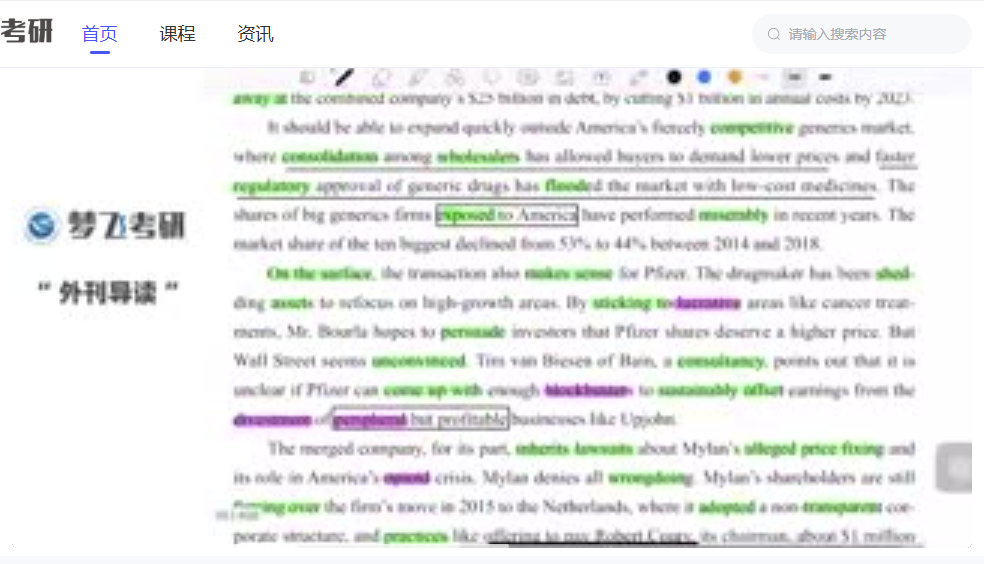
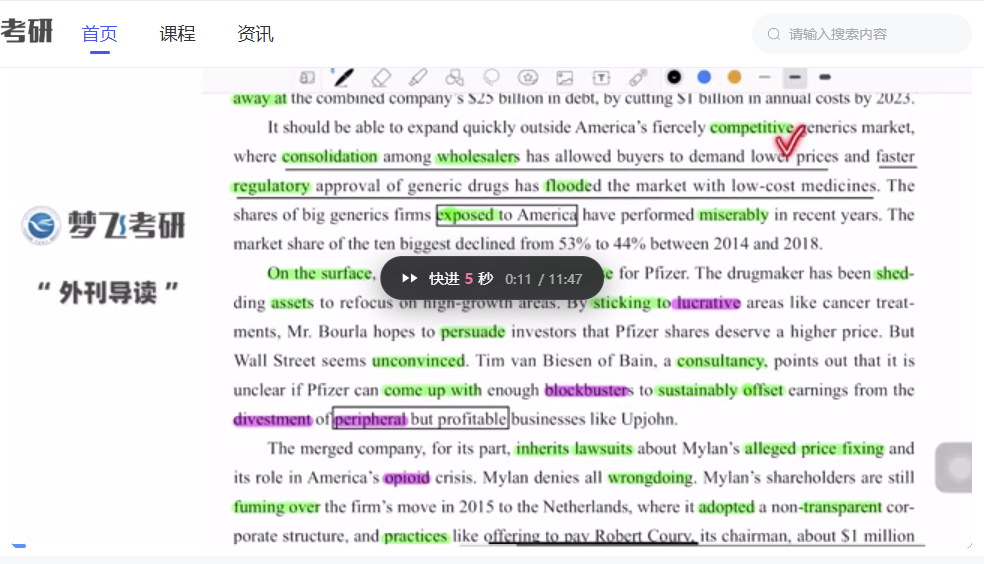
fix: 连续快速按方向键会把播放器按卡住（v1.1.2）
现象：连着快速按 → 十几次后，视频画面不动、播放按钮一直转圈。

定位：百家云 ffplayer 每 seek 一次都要重开解码管线。脚本（和播放器自己的
进度条逻辑一样）在每次按键时各发一次 seek，一秒内连开十几次之后，播放器会
长时间停在 seeking 状态（isSeeking=true，按钮显示 loading、容器挂上
bplayer-seeking），画面不再刷新，看起来就是卡死。

修法两段：

1) 连按合并
   把连按的位移攒起来，最多每 400ms 真正 seek 一次，总位移不变。
   实测 8 次快按只触发 4 次 seek，30 次快按只触发 8 次（原来 30 次），
   跳转总量仍然是 8×5=40 秒 / 30×5=150 秒。

2) 卡死兜底
   万一还是被拖进了“一直 seeking”的状态：连续 3 秒没有进展就先清掉
   seeking 标志（顺手把 loading 图标恢复），再过 4 秒还不走就原地重开
   一次解码。正常播放和正常 seek 时这个定时器什么都不做。

测试新增 5 条：8 连按后仍能播、8 连按的 seek 次数上限、30 连按的 seek
次数上限、30 连按后仍能播，以及原有的累计位移断言。

diff --git a/ky-bilibili-player.user.js b/ky-bilibili-player.user.js
@@ -1,7 +1,7 @@
 // ==UserScript==
 // @name         研优课(ky.mfedu.cn) B站式播放控制
 // @namespace    https://github.com/ZhuYiXuanNB/bettermfclass
-// @version      1.1.1
+// @version      1.1.2
 // @description  给研优课的课程播放器加上 B 站风格的快捷键：← / → 快退快进、按住 → 倍速播放、↑ / ↓ 音量、空格播放暂停、F 全屏、W 网页全屏。已适配百家云(BPlayer/ffplayer 画布播放)与保利威。
 // @author       ZhuYiXuanNB
 // @match        https://ky.mfedu.cn/*
@@ -42,7 +42,7 @@
   if (window.__mfcPlayerHooked) return;
   window.__mfcPlayerHooked = true;
 
-  const VERSION = '1.1.1';
+  const VERSION = '1.1.2';
   const ACCENT = '#FB7299'; // B 站粉
 
   // ==========================================================================
@@ -692,6 +692,34 @@
     });
   }
 
+  // ---- 连按合并 -------------------------------------------------------------
+  // 百家云的 ffplayer 每 seek 一次都要重开解码。一秒里连开十几次 seek 之后，
+  // 它会长时间停在 seeking 状态（画面不动、按钮一直转圈），也就是“按卡住了”。
+  // 这里把连按攒起来，最多每 MIN_SEEK_GAP 毫秒真正 seek 一次，总位移不变。
+  const seekBurst = { pending: 0, lastAt: 0, timer: 0 };
+  const MIN_SEEK_GAP = 400; // 实测 300~400ms 一次解码器跟得上，再密就开始掉速
+
+  function queueSeek(p, delta) {
+    if (!p || !delta) return;
+    seekBurst.pending += delta;
+    if (seekBurst.timer) return; // 已经在排队等下一次
+    const wait = Math.max(0, MIN_SEEK_GAP - (Date.now() - seekBurst.lastAt));
+    if (wait === 0) flushSeek();
+    else seekBurst.timer = setTimeout(flushSeek, wait);
+  }
+
+  function flushSeek() {
+    clearTimeout(seekBurst.timer);
+    seekBurst.timer = 0;
+    const delta = seekBurst.pending;
+    seekBurst.pending = 0;
+    if (!delta) return;
+    const p = lastPlayerRef && lastPlayerRef.el && lastPlayerRef.el.isConnected ? lastPlayerRef : getPlayer();
+    if (!p) return;
+    seekBurst.lastAt = Date.now();
+    seekBy(p, delta);
+  }
+
   function togglePlay(p) {
     if (!p) return;
     cancelKeepPaused();
@@ -744,7 +772,7 @@
 
   function nudge(p, dir) {
     if (!p) return;
-    seekBy(p, dir);
+    queueSeek(p, dir);
   }
 
   // ---- 倍速快放（按住 →）-----------------------------------------------------
@@ -921,7 +949,7 @@
       const now = Date.now();
       if (now - lastAt < 190) return;
       lastAt = now;
-      seekBy(cur, delta);
+      queueSeek(cur, delta); // 同样走合并，长按快退不会把解码器打爆
     }, 60);
   }
 
@@ -1091,7 +1119,7 @@
     clearHold();
     if (!wasTap || !p) return;
 
-    seekBy(p, code === 'ArrowRight' ? cfg.seekStep : -cfg.seekStep); // 里面带提示浮层
+    queueSeek(p, code === 'ArrowRight' ? cfg.seekStep : -cfg.seekStep); // 里面带提示浮层
   }
 
   // ==========================================================================
@@ -1239,6 +1267,53 @@
       }
     }
   }, 1500);
+
+  // ---- 卡死兜底 -------------------------------------------------------------
+  // 万一还是被密集 seek 拖进了“一直 seeking、画面不动”的状态，这里两段式把它唤醒：
+  //   3 秒没进展 -> 先清掉转圈状态；
+  //   再过 4 秒还是不动 -> 原地重开一次解码。
+  // 正常播放 / 正常 seek 时这个定时器什么都不做。
+  const stuck = { since: 0, lastTime: -1, kicked: 0, cleared: false };
+
+  function resetStuck() {
+    stuck.since = 0;
+    stuck.lastTime = -1;
+    stuck.kicked = 0;
+    stuck.cleared = false;
+  }
+
+  function watchStuck() {
+    const p = lastPlayerRef;
+    if (!p || p.kind !== 'bplayer' || !p.raw) return resetStuck();
+    const inst = p.raw;
+    if (p.paused() || !inst.isSeeking) return resetStuck();
+
+    const now = Date.now();
+    const t = p.time();
+    if (stuck.lastTime >= 0 && Math.abs(t - stuck.lastTime) > 0.5) return resetStuck(); // 有进展
+    if (!stuck.since) {
+      stuck.since = now;
+      stuck.lastTime = t;
+      return;
+    }
+    const stalled = now - stuck.since;
+
+    if (!stuck.cleared && stalled > 3000) {
+      stuck.cleared = true;
+      try {
+        inst.toggleSeekingStat(false); // 只把转圈状态和按钮图标恢复
+      } catch (e) {}
+      return;
+    }
+    if (stuck.cleared && stuck.kicked < 1 && stalled > 7000) {
+      stuck.kicked++;
+      try {
+        inst.seek(inst.currentTime || 0); // 原地重开解码
+      } catch (e) {}
+    }
+  }
+
+  setInterval(watchStuck, 600);
 
   // ---- 首次使用提示 ---------------------------------------------------------
   function firstRun() {
